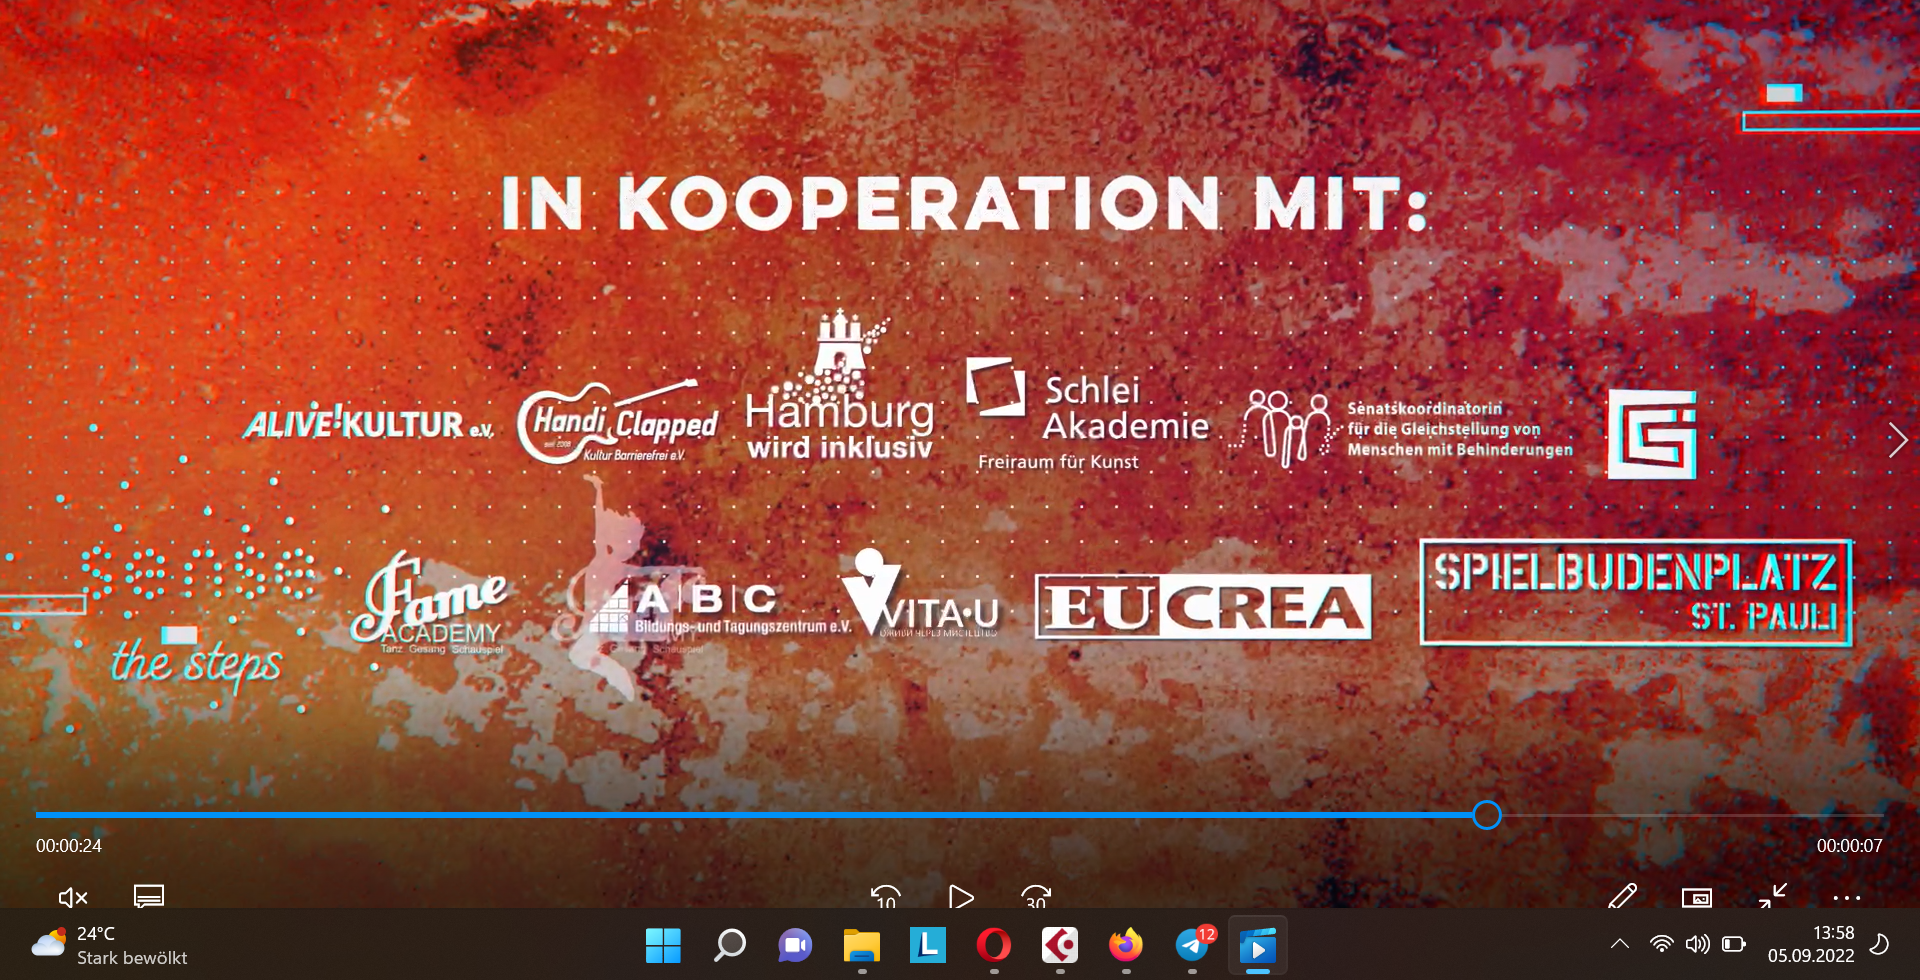
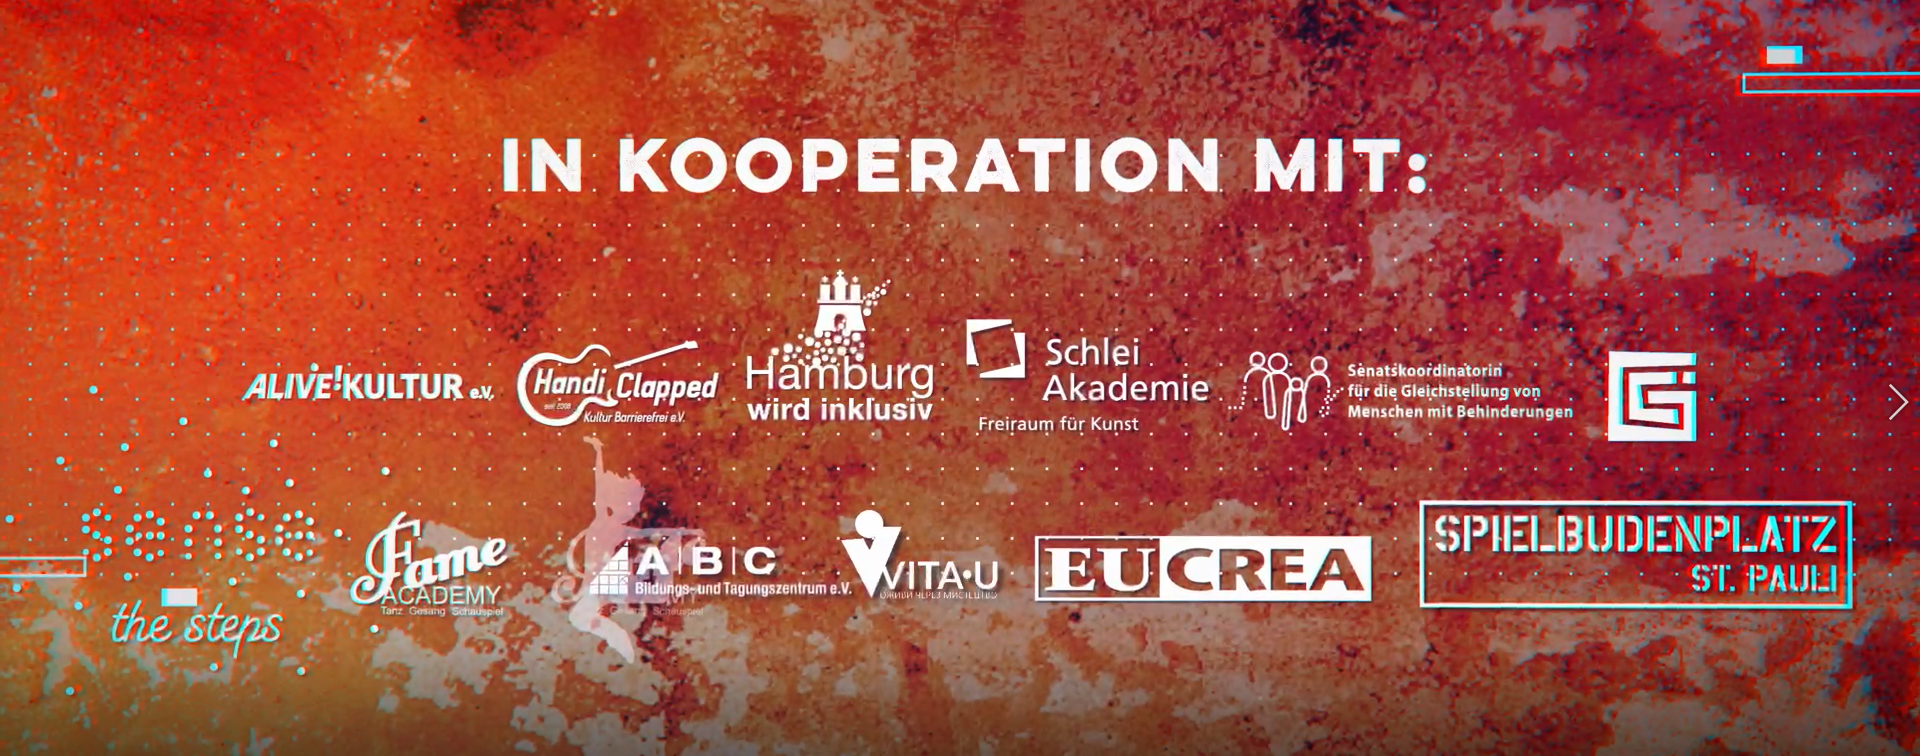
Update from Forestry.io Mischa Gohlke created static/media/2022/09/ermoglicht-durch.png Mischa Gohlke created static/media/2022/09/in-kooperation-mit.png Mischa Gohlke updated content/aktivitaeten/projekte-und-veranstaltungen/veranstaltungsformate-fuer-dein-event/kultur-alive-grenzen-sind-relativ-sa

diff --git a/content/aktivitaeten/projekte-und-veranstaltungen/veranstaltungsformate-fuer-dein-event/kultur-alive-grenzen-sind-relativ-sa.1.10.22-spielbudenplatz-reeperbahn-hamburg.md b/content/aktivitaeten/projekte-und-veranstaltungen/veranstaltungsformate-fuer-dein-event/kultur-alive-grenzen-sind-relativ-sa.1.10.22-spielbudenplatz-reeperbahn-hamburg.md
@@ -76,3 +76,6 @@ Die Kids von der Musicalschule "Fame Academy" und dem “Tanzstudio Alavi “ we
 [**SCHLEI-AKADEMIE**](https://www.schlei-akademie.de/) **+++** [**SENSE THE STEPS E.V. +**](https://www.sense-the-steps.org/)**++** [**BEYOND BORDERS E.V.**](http://beyond-borders-ev.de/de/) **+++** [**ABC BILDUNGS- & TAGESZENTRUM E.V.**](https://www.abc-huell.de/) **+++** [**GOOD CAUSE E.V.__](https://goodcause-ev.org/) +++ **[**ALIVE!KULTUR E.V.**](https://www.alivekultur.de/) **+++** [**HANDICLAPPED E.V.**](https://handiclapped-berlin.de/) **+++** [**FAME ACADEMY**](https://www.fame-academy.com/) **+++** [**INKLUSIONSBÜRO HAMBURG**](https://www.hamburg.de/skbm/4477488/inklusionsbuero/) **+++** [**EUCREA .E.V.**](https://www.eucrea.de/) **+++** [**VITA-U**](https://vita-u.de/?lang=de) **+++** [**SPIELBUDENPLATZ**](https://spielbudenplatz.eu/) **+++** [**LINA HAWK**](https://linahawk.com/site/) **+++ UVM.**
 
 ***
+
+  
+![](/media/2022/09/ermoglicht-durch.png)![](/media/2022/09/in-kooperation-mit.png)
